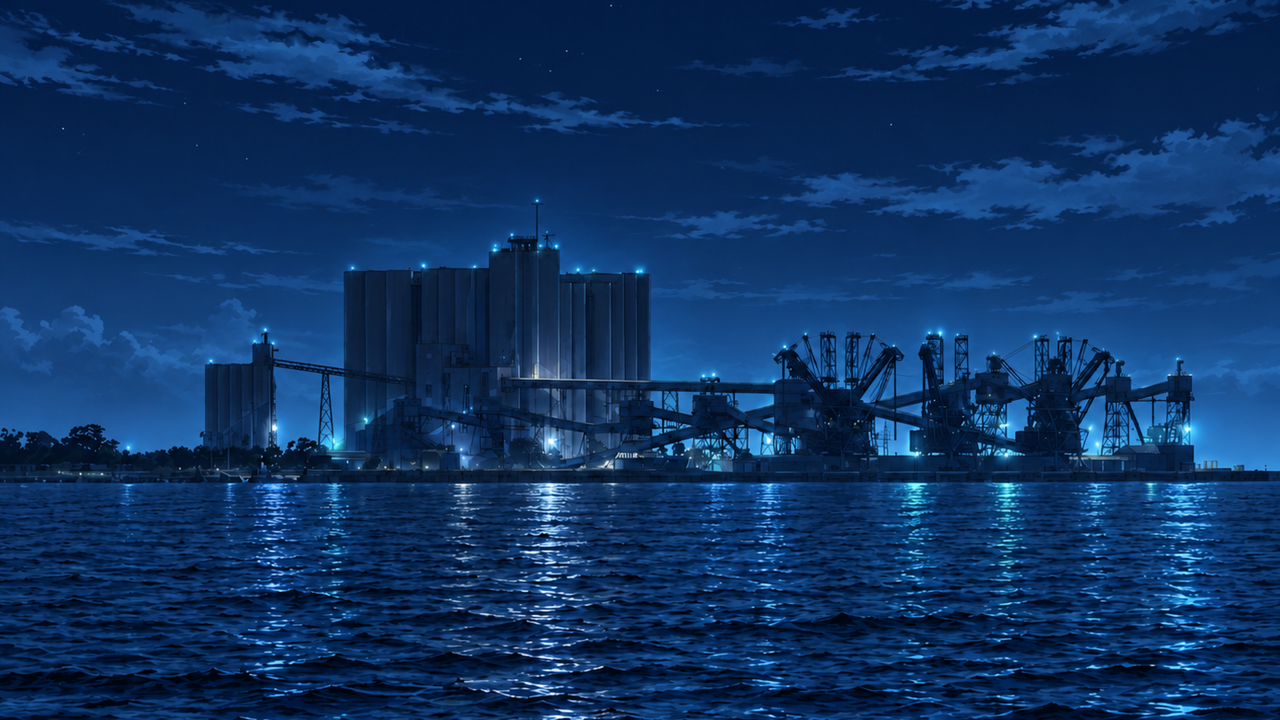
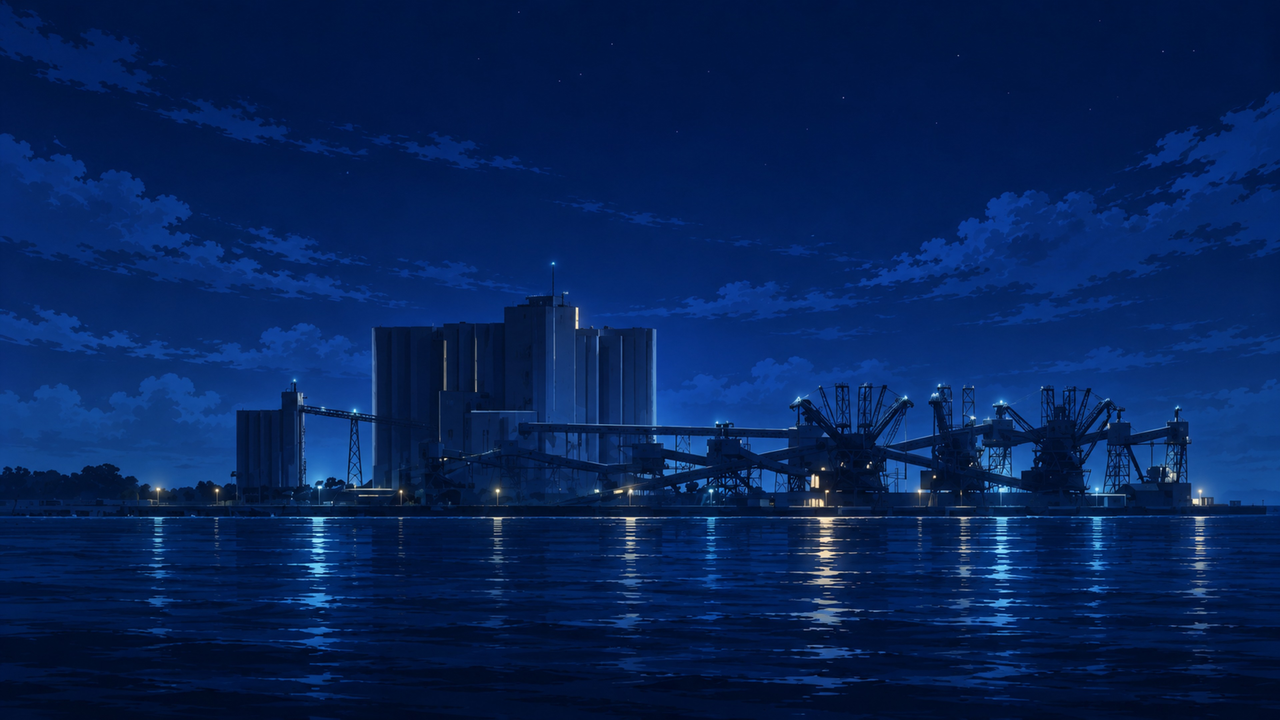
Add stylised Lisbon wallpapers (harbour, Belém, Praça do Comércio, Baixa-Chiado); credit as images

diff --git a/README.md b/README.md
@@ -17,14 +17,14 @@ or run `omarchy theme install https://github.com/MrJazzMan/omarchy-lisbon-sapphi
 ## What's included
 
 - `colors.toml`: deep navy backgrounds, sapphire accent `#2F6FD6` and warm amber highlights
-- Wallpaper: the Lisbon harbour at night (3840×2160)
+- Wallpapers (3840×2160): Lisbon harbour silos, Belém Tower, Praça do Comércio and Baixa-Chiado at night
 - Icons: Yaru-blue
 - Neovim and VS Code/Cursor: Tokyo Night Storm
 
 ## Credits
 
-Wallpaper photo © Miguel Garcia, used with permission in this theme.
+Images by Miguel Garcia.
 
 ## License
 
-MIT for the theme files. The wallpaper photo is © Miguel Garcia; you may use it as a wallpaper with this theme.
+MIT for the theme files. Images by Miguel Garcia; you may use them as wallpapers with this theme.
